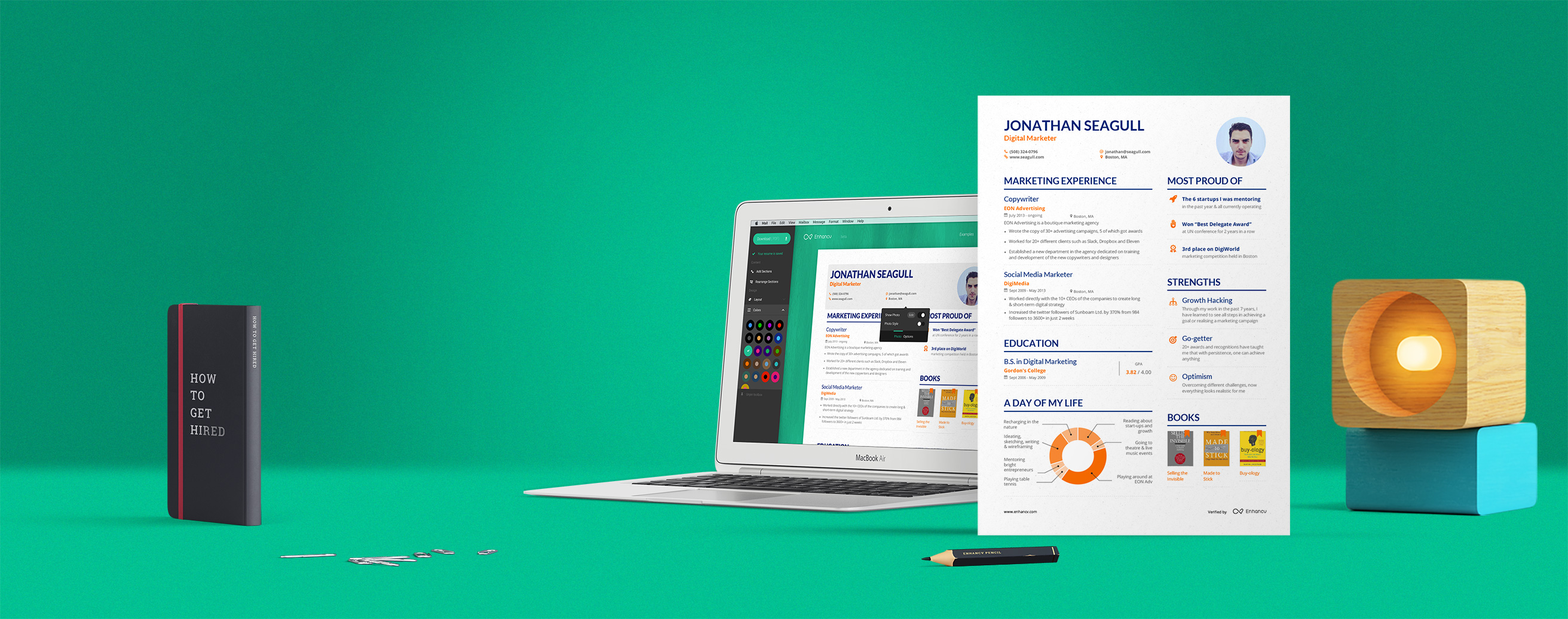
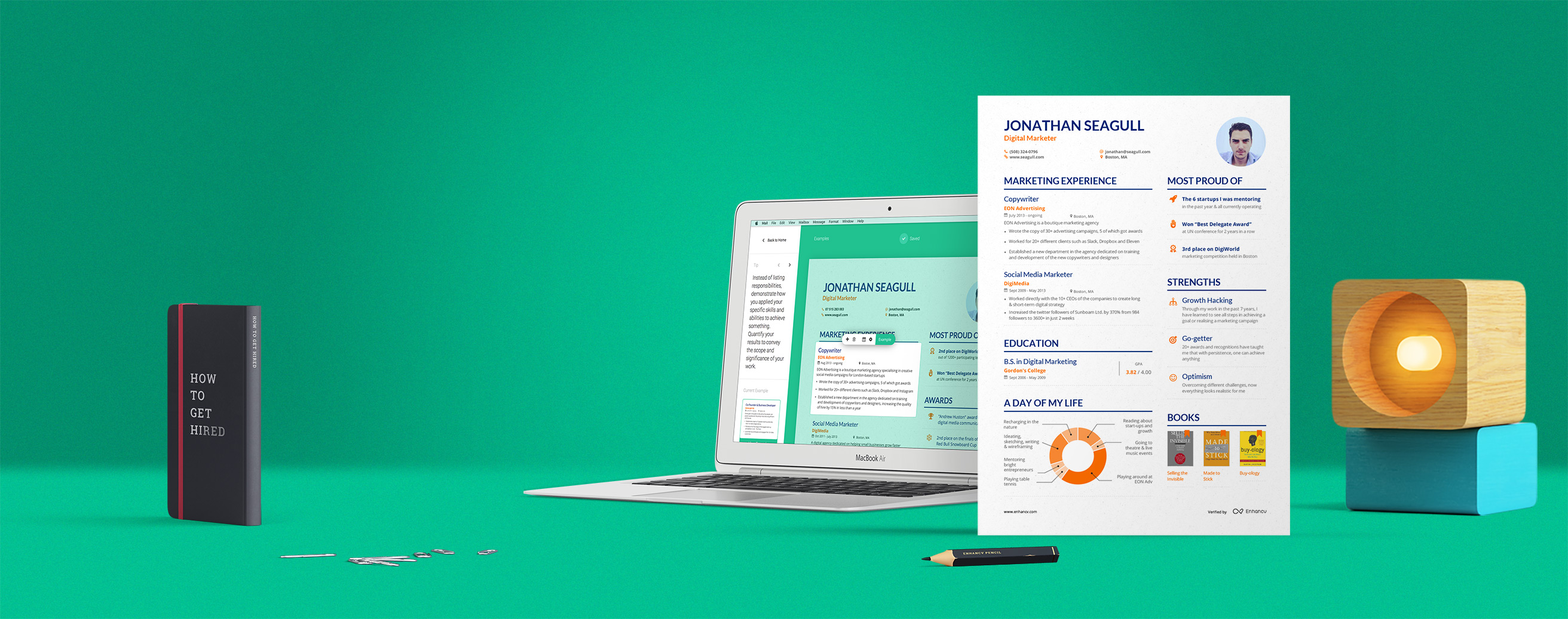
Changed landing image and fixed text mistakes

Changed region(s): [[0.4688, 0.3394, 0.625, 0.7406]]

diff --git a/tests/integration/about-test.js b/tests/integration/about-test.js
@@ -38,7 +38,7 @@ casper.test.begin('About page', 18, function (test) {
 
         test.assertSelectorHasText(
             '.about-header h1',
-            'Enhancv brings you resumes that are all',
+            'Enhancv brings resumes that are all',
             'Should have a main title'
         );
 
